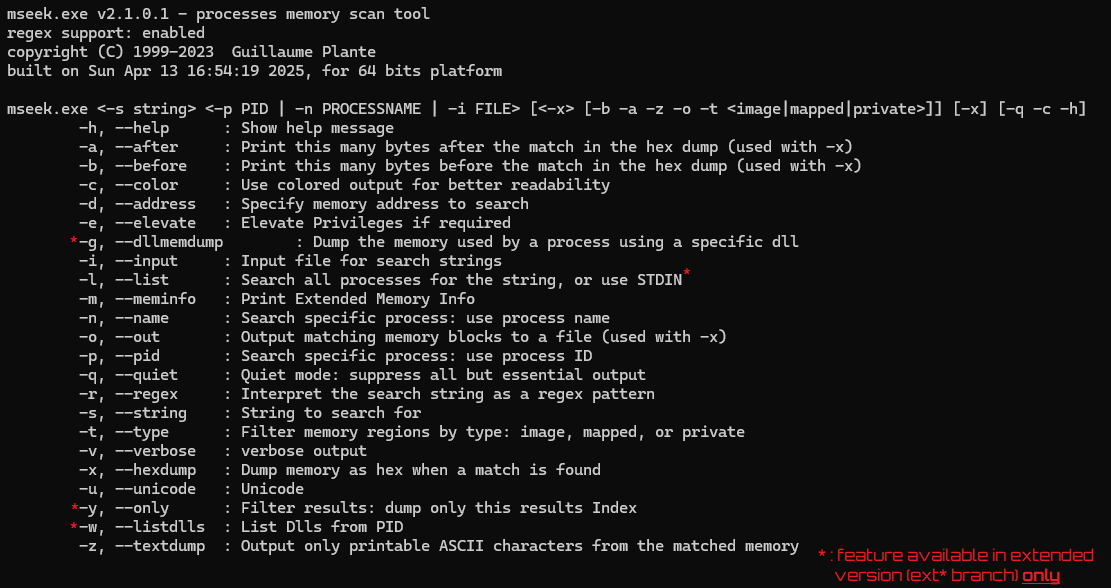
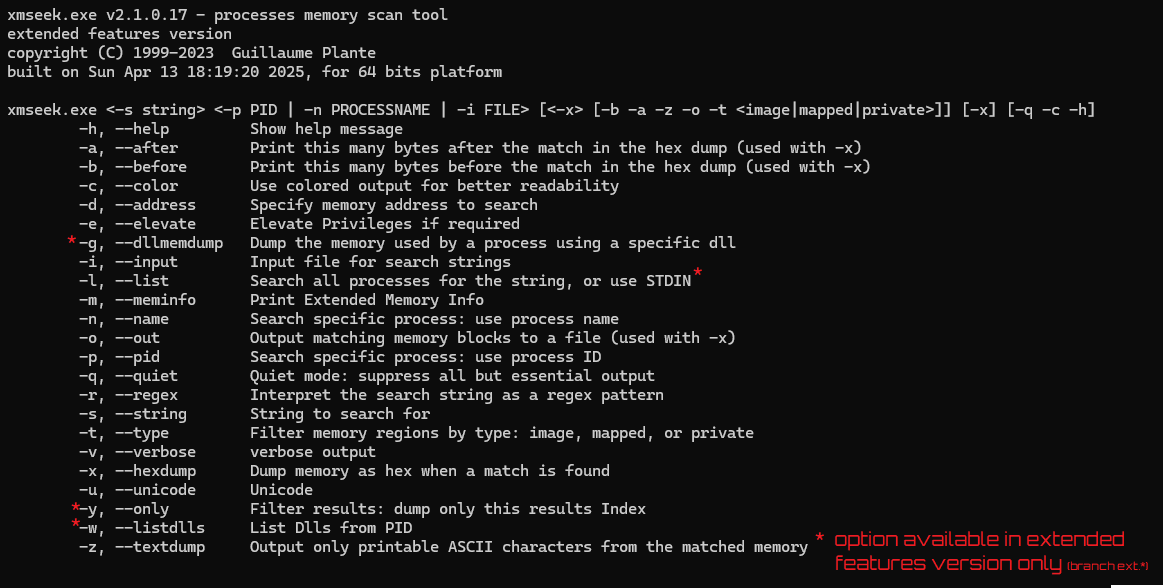
fixed help message display, fixed README and some images

Changed region(s): [[0.0, 0.0, 1.0, 1.0]]

diff --git a/src/memseek.cpp b/src/memseek.cpp
@@ -63,10 +63,10 @@ typedef enum ESearchMode {
 void usage(CmdlineParser* inputParser) {
 #ifdef PLATFORM_WIN64
 	std::string platform_str = "for 64 bits platform";
-	std::string name_str = "mseek.exe";
+	std::string name_str = "xmseek.exe";
 #else
 	std::string platform_str = "for 32 bits platform";
-	std::string name_str = "mseek32.exe";
+	std::string name_str = "xmseek32.exe";
 #endif
 	logmsgn( "%s <-s string> <-p PID | -n PROCESSNAME | -i FILE> [<-x> [-b -a -z -o -t <image|mapped|private>]] [-x] [-q -c -h]\n", name_str.c_str());
 
@@ -80,16 +80,16 @@ void banner() {
 	std::string verstr = mseek::version::GetAppVersion();
 #ifdef PLATFORM_WIN64
 	std::string platform_str = "for 64 bits platform";
-	std::string name_str = "mseek.exe";
+	std::string name_str = "xmseek.exe";
 #else
 	std::string platform_str = "for 32 bits platform";
-	std::string name_str = "mseek32.exe";
+	std::string name_str = "xmseek32.exe";
 #endif
 	logmsgn("\n%s v%s - processes memory scan tool\n", name_str.c_str(), verstr.c_str());
-#ifdef ENABLE_REGEX_SUPPORT
-	logmsgn("regex support: enabled\n");
+#ifdef EXTENDED_FEATURE_VERSION
+	logmsgn("extended features version\n");
 #else
-    logmsgn("regex support: disabled\n");
+    logmsgn("vanilla\n");
 #endif
 	logmsgn("copyright (C) 1999-2023  Guillaume Plante\n");
 	logmsgn("built on %s, %s\n\n", __TIMESTAMP__, platform_str.c_str());
@@ -344,11 +344,6 @@ int _tmain(int argc, TCHAR* argv[], TCHAR* envp[])
 	if (inputParser->get_option_argument(optInputFile, inputFile)) {
 		searchInput = ESINPUT_FILE;
 	}
-
-
-	CMemUtils::Get().ListLoadedDlls(1234);  // Replace 1234 with actual PID
-
-	
 	
 	if (inputParser->get_option_argument(optProcessName, procName)) {
 		searchMode = ESEARCH_PNAME;

diff --git a/src/cmdline.h b/src/cmdline.h
@@ -15,6 +15,7 @@
 #include <string>
 #include <memory>
 #include <sstream>
+#include <iomanip>
 #include <map>
 #include <algorithm>
 #include "log.h"
@@ -51,9 +52,11 @@ public:
         return _options == other._options;
     }
     void dump_options(std::ostringstream& dbg_output) const {
-        dbg_output << "\t" << _options.at(0).c_str() << ", " << _options.at(1).c_str() << "\t: " << _description.c_str() << std::endl;
+        constexpr int name1_width = 10;
+        constexpr int name2_width = 15;
+        constexpr int desc_width = 75;
+        dbg_output << std::right << std::setw(name1_width) << _options.at(0).c_str()  << std::left << std::setw(2) << ", " << std::left << std::setw(name2_width) << _options.at(1).c_str() << std::left  << std::setw(desc_width) << _description.c_str() << std::endl;
     }
-  
 
     std::vector<std::string> _options;
     std::string _description;

diff --git a/src/cmdline_opt_values.h b/src/cmdline_opt_values.h
@@ -72,9 +72,14 @@ struct SCmdlineOptValues {
         return _options == other._options;
     }
     void dump_options(std::ostringstream& dbg_output) {
-        for (auto&& opt : _options) {
-            dbg_output << _description << " : " << opt << std::endl;
-            LOG_TRACE("SCmdlineOptValues::dump_options", "%s: option %s", _description.c_str(), opt.c_str());
+        constexpr int desc_width = 20;  // adjust width as needed for alignment
+
+        for (const auto& opt : _options) {
+            dbg_output << std::left << std::setw(desc_width)
+                << _description << " : " << opt << std::endl;
+
+            LOG_TRACE("SCmdlineOptValues::dump_options",
+                "%-*s : option %s", desc_width, _description.c_str(), opt.c_str());
         }
     }
 };

diff --git a/README.md b/README.md
@@ -49,7 +49,7 @@ git update-index --assume-unchanged build.nfo
 ## 📦 Usage
 
 ```
-mseek.exe <-s string> <-p PID | -n PROCESSNAME | -i FILE> [options]
+xmseek.exe <-s string> <-p PID | -n PROCESSNAME | -i FILE> [options]
 ```
 
 ### 🔧 Required Arguments:
@@ -73,23 +73,23 @@ mseek.exe <-s string> <-p PID | -n PROCESSNAME | -i FILE> [options]
 1. Search for a string in a specific process using process name <sup>[1](#ref1)</sup>
 
 ```sh
-mseek.exe -n fsvpnservice_64.exe -s "<key>" 
+xmseek.exe -n fsvpnservice_64.exe -s "<key>" 
 ```
 2. Search for a string in a specific process using process id <sup>[2](#ref1)</sup>
 
 ```sh
-mseek.exe -pid 2476 -s "<key>" 
+xmseek.exe -pid 2476 -s "<key>" 
 ```
 
 3. Search for a string, print 200 bytes **after** found instance <sup>[3](#ref2)</sup>
 ```Get the address: 0x0000027B10F5E70E```
 ```sh
-mseek.exe -n fsvpnservice_64.exe -s "<key>" -x -a 200
+xmseek.exe -n fsvpnservice_64.exe -s "<key>" -x -a 200
 ```
 4. Search for a string, print 100 bytes **before** found instance <sup>[4](#ref3)</sup>
 ```Get the address: 0x0000027B10F5EDE4```
 ```sh
-mseek.exe -n fsvpnservice_64.exe -s "<key>" -x -b 100
+xmseek.exe -n fsvpnservice_64.exe -s "<key>" -x -b 100
 ```
 5. Get Delta Memory using addresses <sup>[5](#ref4)</sup>
 
@@ -108,7 +108,7 @@ The example below will look for all GUIDS with this REGEX pattern<sup>[7](#ref6)
 
 
 ```
-mseek.exe -n fsvpnservice_64.exe -s "\{[0-9A-Fa-f]{8}-[0-9A-Fa-f]{4}-[0-9A-Fa-f]{4}-[0-9A-Fa-f]{4}-[0-9A-Fa-f]{12}\}" -t private -r -o "d:\mem.txt" -x -z
+xmseek.exe -n fsvpnservice_64.exe -s "\{[0-9A-Fa-f]{8}-[0-9A-Fa-f]{4}-[0-9A-Fa-f]{4}-[0-9A-Fa-f]{4}-[0-9A-Fa-f]{12}\}" -t private -r -o "d:\mem.txt" -x -z
 ```
 --------------------------------
 
@@ -151,9 +151,9 @@ So get the PIDs:
 The example below will input all the PIDs found in the script and pass them the mseek for search <sup>[8](#ref7)</sup>
 
 ```bash
-.\scripts\Find-FSecure.ps1 | Select -ExpandProperty Id | D:\Dev\mseek\bin\x64\Debug\mseek.exe -l -s "<key>"
+.\scripts\Find-FSecure.ps1 | Select -ExpandProperty Id | D:\Dev\mseek\bin\x64\Debug\xmseek.exe -l -s "<key>"
 
-mseek.exe v1.2.0.222 - processes memory scan tool
+xmseek.exe v1.2.0.222 - processes memory scan tool
 regex support: enabled
 copyright (C) 1999-2023  Guillaume Plante
 built on Sun Apr 13 00:11:33 2025, for 64 bits platform
@@ -179,7 +179,7 @@ PID 11772 had 4 hits
 Below, we use the argument **-l or --list** WITHOUT piping any data in STDIN, it will search in ALL processes.
 
 ```bash
-D:\Dev\mseek\bin\x64\Debug\mseek.exe -l -s "<key>"
+D:\Dev\mseek\bin\x64\Debug\xmseek.exe -l -s "<key>"
 ```
 
 --------------------------------
